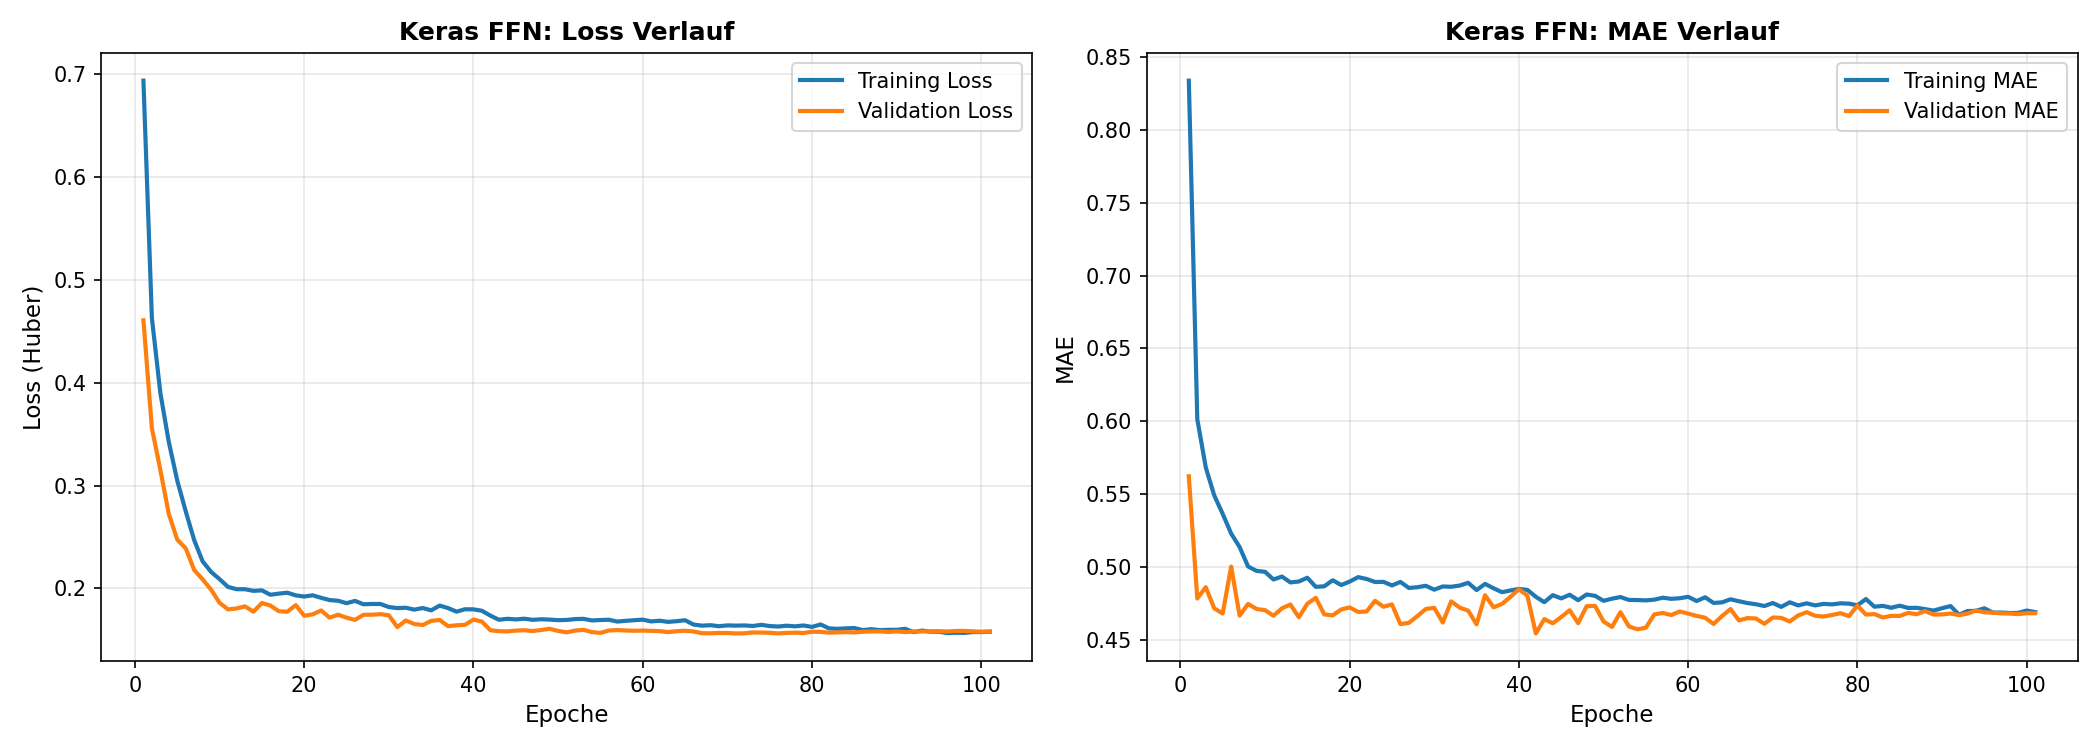
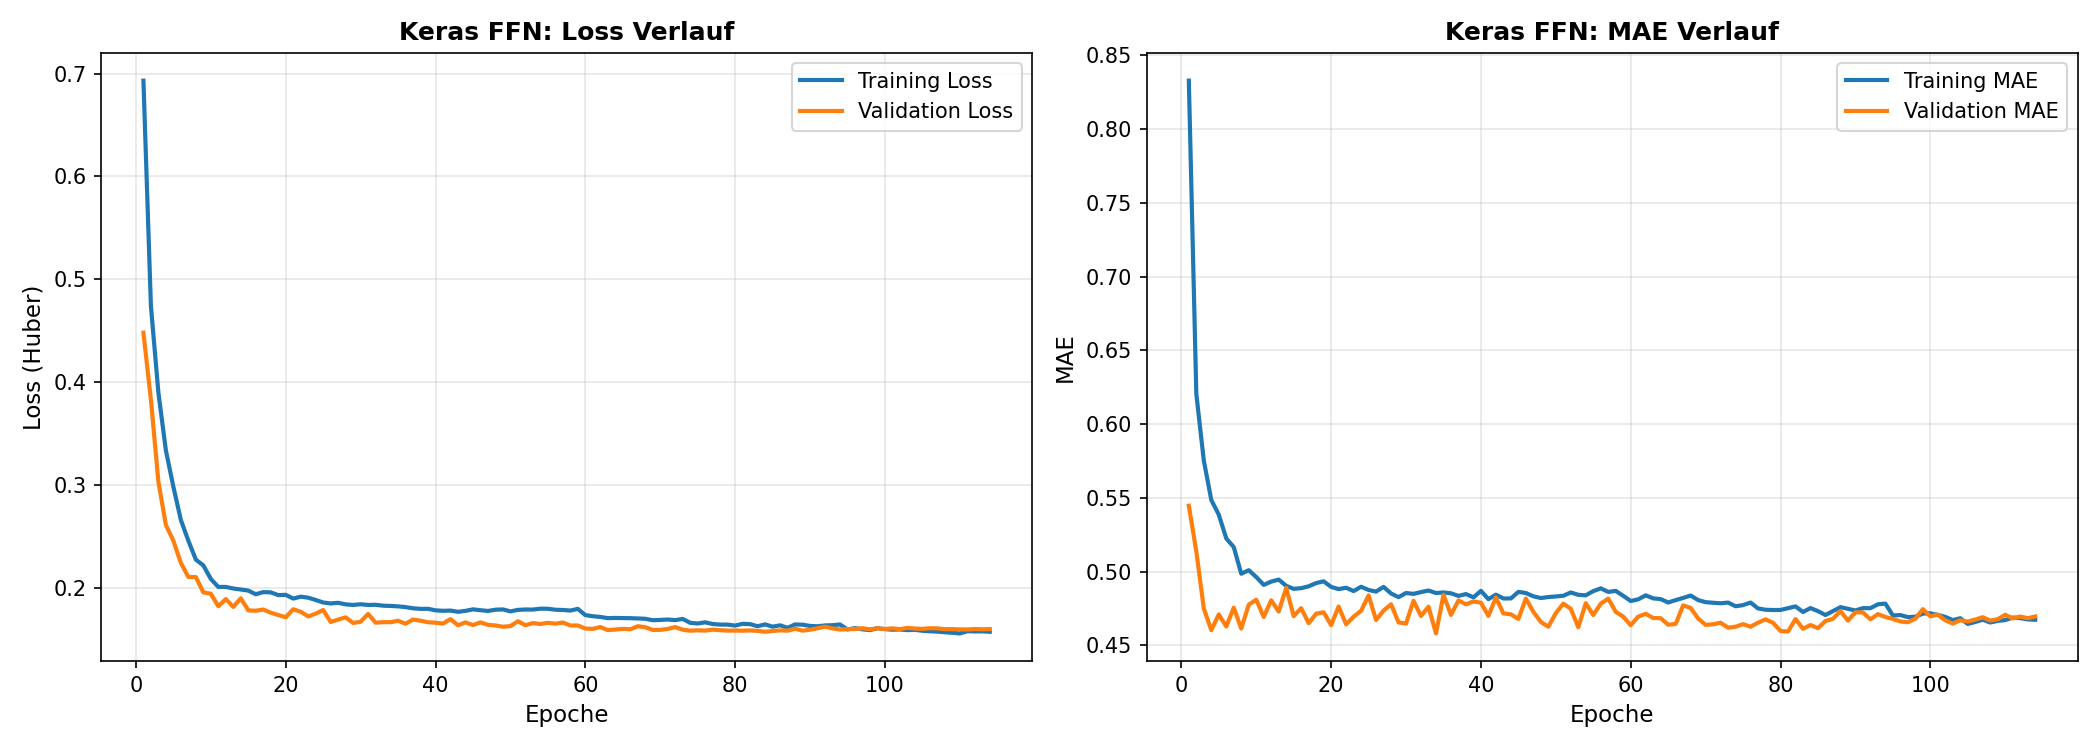
05.12.2025

diff --git a/scripts/plot_training_results.py b/scripts/plot_training_results.py
@@ -1,7 +1,6 @@
-#!/usr/bin/env python
 """
-Create essential diagnostic plot for trained model.
-Saves minimal figure to `reports/figures/`.
+Erstellt Plots für die trainierten Modelle.
+Speichert die Bilder in reports/figures/.
 """
 
 import argparse
@@ -16,7 +15,7 @@ from sklearn.metrics import r2_score, mean_squared_error, mean_absolute_error
 from glob import glob
 import math
 
-# Try importing Keras
+# keras falls verfügbar
 try:
     from tensorflow import keras
 
@@ -28,18 +27,16 @@ sys.path.insert(0, str(Path(__file__).parent.parent))
 from src.config import DATA_PROCESSED, MODELS_DIR, RANDOM_SEED
 
 parser = argparse.ArgumentParser(description="Plot training results")
-parser.add_argument(
-    "--no-show", action="store_true", help="Don't show plots interactively"
-)
+parser.add_argument("--no-show", action="store_true", help="Plots nicht anzeigen")
 args = parser.parse_args()
 
-# By default, show plots unless --no-show is specified
+# normalerweise plots anzeigen außer --no-show
 SHOW_PLOTS = not args.no_show
 
 OUTPUT_DIR = os.path.join("reports", "figures")
 os.makedirs(OUTPUT_DIR, exist_ok=True)
 
-# Load processed data
+# daten laden
 processed = DATA_PROCESSED / "techuse_processed.csv"
 if not processed.exists():
     raise FileNotFoundError(f"Processed data not found: {processed}")
@@ -51,7 +48,7 @@ if "sleep_quality" not in df.columns:
 X = df.drop(columns=["sleep_quality"])
 y = df["sleep_quality"]
 
-# Train/test split same as training script
+# gleicher split wie beim training
 X_train, X_test, y_train, y_test = train_test_split(
     X, y, test_size=0.2, random_state=RANDOM_SEED
 )
@@ -66,7 +63,7 @@ keras_file = MODELS_DIR / "keras_ffn.keras"
 
 models = []
 
-# Load XGBoost models
+# xgboost modelle laden
 for fp in model_pkl_files[:2]:
     try:
         m = joblib.load(fp)
@@ -77,7 +74,7 @@ for fp in model_pkl_files[:2]:
     except Exception:
         pass
 
-# Load Keras model if available
+# keras falls vorhanden
 if keras_file.exists() and HAS_KERAS:
     try:
         m = keras.models.load_model(keras_file)
@@ -88,7 +85,7 @@ if keras_file.exists() and HAS_KERAS:
 if not models:
     raise FileNotFoundError(f"Keine Modelle in {MODELS_DIR} gefunden.")
 
-# For Keras models, load scaler
+# scaler für keras
 scaler = None
 scaler_path = MODELS_DIR / "scaler.pkl"
 if HAS_KERAS and scaler_path.exists():
@@ -97,7 +94,7 @@ if HAS_KERAS and scaler_path.exists():
     except Exception:
         scaler = None
 
-# Evaluate each model
+# alle modelle durchgehen
 preds = {}
 metrics = {}
 for path_obj, mdl, model_type in models:
@@ -125,7 +122,7 @@ for path_obj, mdl, model_type in models:
         "type": model_type,
     }
 
-# Save summary
+# zusammenfassung speichern
 summary_lines = []
 summary_lines.append(f"Models: {', '.join([m[0].name for m in models])}\n")
 for name, m in metrics.items():
@@ -138,12 +135,10 @@ summary_file = os.path.join(OUTPUT_DIR, "model_metrics.txt")
 with open(summary_file, "w", encoding="utf-8") as fh:
     fh.write("\n".join(summary_lines))
 
-# Generate single essential plot: Model Comparison
+# plot mit allen modellen
 names = list(preds.keys())
 
 plt.figure(figsize=(10, 7))
-
-# Plot all models
 colors = ["#1f77b4", "#ff7f0e", "#2ca02c", "#d62728"]
 for idx, name in enumerate(names):
     y_pred = preds[name]
@@ -156,7 +151,7 @@ for idx, name in enumerate(names):
         color=colors[idx % len(colors)],
     )
 
-# Reference line (perfect prediction)
+# ideallinie
 plt.plot(
     [y_test.min(), y_test.max()],
     [y_test.min(), y_test.max()],
@@ -180,16 +175,12 @@ plt.close()
 print(f"Saved: {fn}")
 print(f"Saved: {summary_file}")
 
-# Keras training history plot
+# keras trainings-verlauf
 history_path = DATA_PROCESSED / "keras_training_history.csv"
 if history_path.exists():
     try:
         df_history = pd.read_csv(history_path)
-
-        # Create figure with two subplots
         fig, (ax1, ax2) = plt.subplots(1, 2, figsize=(14, 5))
-
-        # Plot 1: Loss (Training + Validation)
         ax1.plot(
             df_history.index + 1, df_history["loss"], label="Training Loss", linewidth=2
         )
@@ -204,8 +195,6 @@ if history_path.exists():
         ax1.set_title("Keras FFN: Loss Verlauf", fontsize=12, fontweight="bold")
         ax1.legend(fontsize=10)
         ax1.grid(True, alpha=0.3)
-
-        # Plot 2: MAE (Training + Validation)
         ax2.plot(
             df_history.index + 1, df_history["mae"], label="Training MAE", linewidth=2
         )
@@ -222,8 +211,6 @@ if history_path.exists():
         ax2.grid(True, alpha=0.3)
 
         plt.tight_layout()
-
-        # Save
         keras_history_fn = os.path.join(OUTPUT_DIR, "keras_training_history.png")
         plt.savefig(keras_history_fn, dpi=150)
         if SHOW_PLOTS:

diff --git a/scripts/predict_interactive.py b/scripts/predict_interactive.py
@@ -1,5 +1,3 @@
-#!/usr/bin/env python
-# -*- coding: utf-8 -*-
 """
 Interaktive Schlafqualitäts-Prognose
 Gibt eigene Werte ein und erhalte eine Vorhersage von trainierten Modellen.
@@ -18,8 +16,6 @@ from src.config import MODELS_DIR
 print("\n" + "=" * 70)
 print("Schlafqualitäts-Prognose (Interaktiv)")
 print("=" * 70)
-
-# Load models
 xgb_model = None
 for name in ["xgb_tuned.pkl", "xgb_baseline.pkl"]:
     p = MODELS_DIR / name
@@ -30,8 +26,6 @@ for name in ["xgb_tuned.pkl", "xgb_baseline.pkl"]:
             break
         except Exception:
             pass
-
-# Load Keras model if available
 keras_model = None
 scaler = None
 keras_path = MODELS_DIR / "keras_ffn.keras"
@@ -54,9 +48,6 @@ if not xgb_model and not keras_model:
 print("\n" + "=" * 70)
 print("Gib deine Werte ein (basierend auf deinen täglichen Daten):")
 print("=" * 70)
-
-# Feature-Eingabe (entspricht den Features aus dem Training)
-# Siehe train_model.py für die genaue Feature-Liste
 
 try:
     age = float(input("Alter: "))
@@ -88,8 +79,7 @@ except ValueError:
     print("\nFehler: Bitte gültige Zahlen eingeben.")
     exit(1)
 
-# Erstelle Feature-Vektor (alle Features wie im Training)
-# Reihenfolge muss exakt mit train_model.py übereinstimmen!
+# features zusammenstellen
 features = {
     "age": age,
     "daily_screen_time_hours": daily_screen_time,
@@ -120,8 +110,6 @@ df_input = pd.DataFrame([features])
 print("\n" + "=" * 70)
 print("PROGNOSE")
 print("=" * 70)
-
-# Use XGBoost for explanation (better interpretability with SHAP)
 pred_xgb = None
 if xgb_model:
     try:
@@ -139,8 +127,6 @@ if keras_model:
         print(f"Keras FFN Vorhersage: {pred_keras:.2f} / 5.0")
     except Exception as e:
         print(f"Keras Fehler: {e}")
-
-# Feature importance explanation
 if xgb_model and pred_xgb is not None:
     print("\n" + "=" * 70)
     print("EINFLUSS-ANALYSE (Top 5 wichtigste Faktoren)")
@@ -149,23 +135,15 @@ if xgb_model and pred_xgb is not None:
     try:
         import shap
 
-        # Create SHAP explainer
         explainer = shap.TreeExplainer(xgb_model)
         shap_values = explainer.shap_values(df_input)
-
-        # Get feature contributions
         feature_names = df_input.columns.tolist()
         contributions = list(zip(feature_names, shap_values[0]))
-
-        # Sort by absolute impact
         contributions_sorted = sorted(
             contributions, key=lambda x: abs(x[1]), reverse=True
         )
-
-        # Show top 5
         for i, (feature, impact) in enumerate(contributions_sorted[:5], 1):
             direction = "erhöht" if impact > 0 else "senkt"
-            # Translate feature names to German
             feature_de = {
                 "stress_level": "Stress-Level",
                 "mental_health_score": "Mental Health Score",
@@ -186,8 +164,6 @@ if xgb_model and pred_xgb is not None:
     except ImportError:
         print("\nHinweis: SHAP nicht installiert. Installiere mit: pip install shap")
         print("Zeige einfache Feature-Wichtigkeit:")
-
-        # Fallback: Use built-in feature importance
         importance = xgb_model.feature_importances_
         feature_names = df_input.columns.tolist()
 
